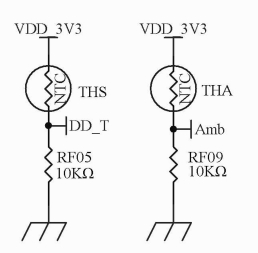
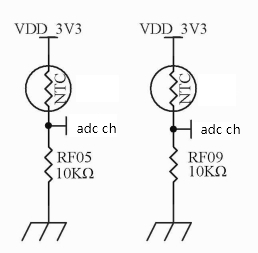
update
update

diff --git a/README.md b/README.md
@@ -1,2 +1,26 @@
 # M031BSP_ADC_NTC_calculation
  M031BSP_ADC_NTC_calculation
+
+
+update @ 2024/09/03
+
+1. init ADC: PB6/ADC0_CH6 , PB12/ADC0_CH12 , PB1/ADC0_CH13 to detect NTC and calculate temperature
+
+2. init PF2/UART0_RXD , PF3/UART0_TXD for printf
+
+3. use PDMA to collect ADC data (check define : USE_ADC_PDMA) , doing sorting and delete head/tail , check ADC_InitChannel
+
+4. convert ADC digital vaule into voltage (mv) , check ADC_To_Voltage
+
+5. convert voltage (mv) into temperature , check NTC_LookupTable_10K_3_3V_Search , NTC_LookupTable_100K_3_3V_Search
+
+6. if necessary , check define : ENABLE_NTC_DECIMAL , to enable temperature with decimal 
+
+7. below is log capture , convert ADC into temperature at each channel 
+
+![image](https://github.com/released/M031BSP_ADC_NTC_calculation/blob/master/log.jpg)
+
+8. below is reference sch.
+
+![image](https://github.com/released/M031BSP_ADC_NTC_calculation/blob/master/sch.jpg)
+
